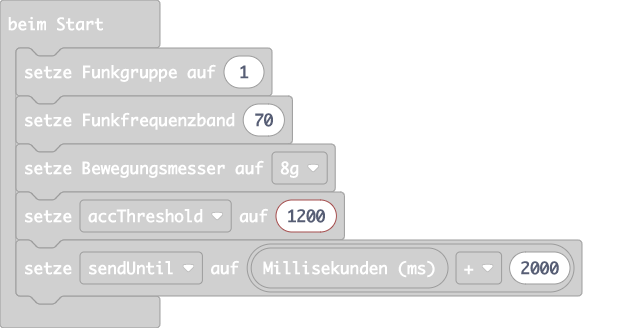
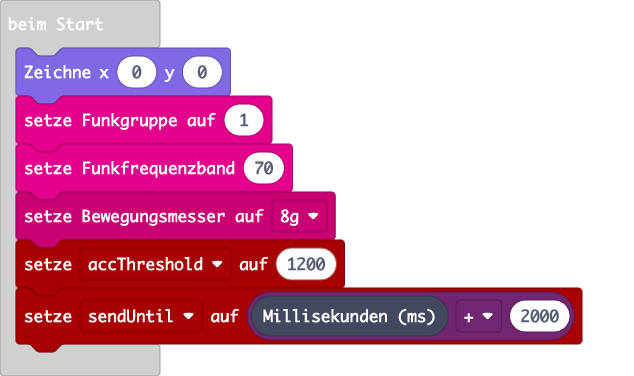
Aktualisiere main.blocks, main.ts

diff --git a/main.ts b/main.ts
@@ -1,4 +1,5 @@
 let acc = 0
+led.plot(0, 0)
 radio.setGroup(1)
 radio.setFrequencyBand(70)
 input.setAccelerometerRange(AcceleratorRange.EightG)
